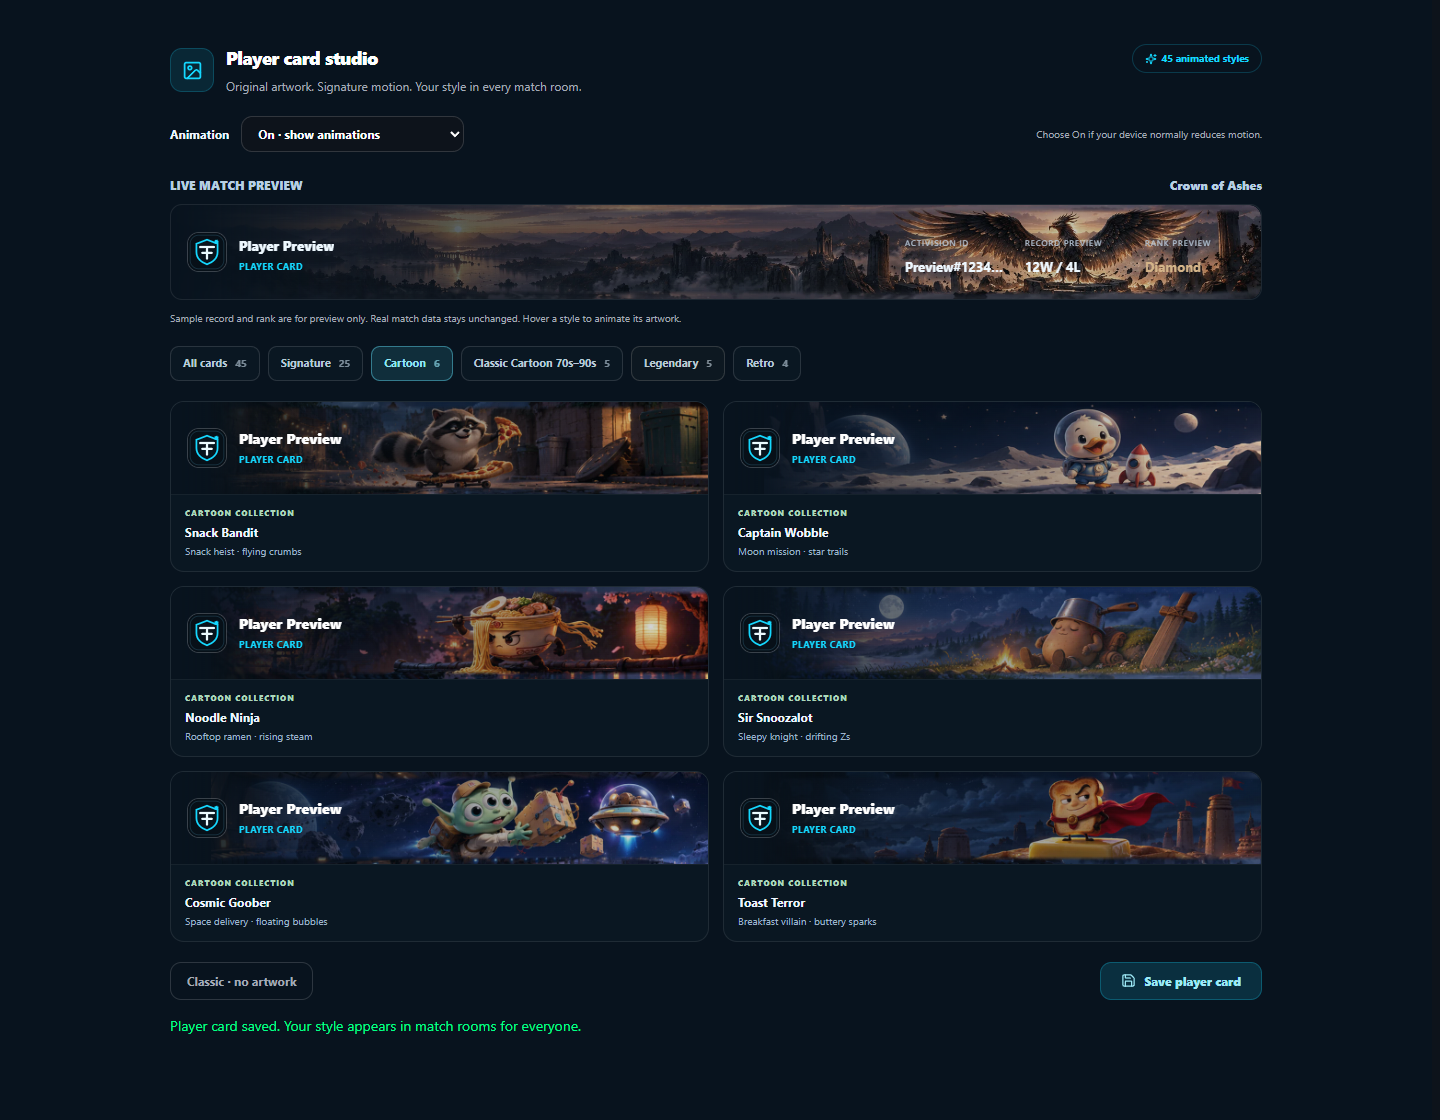
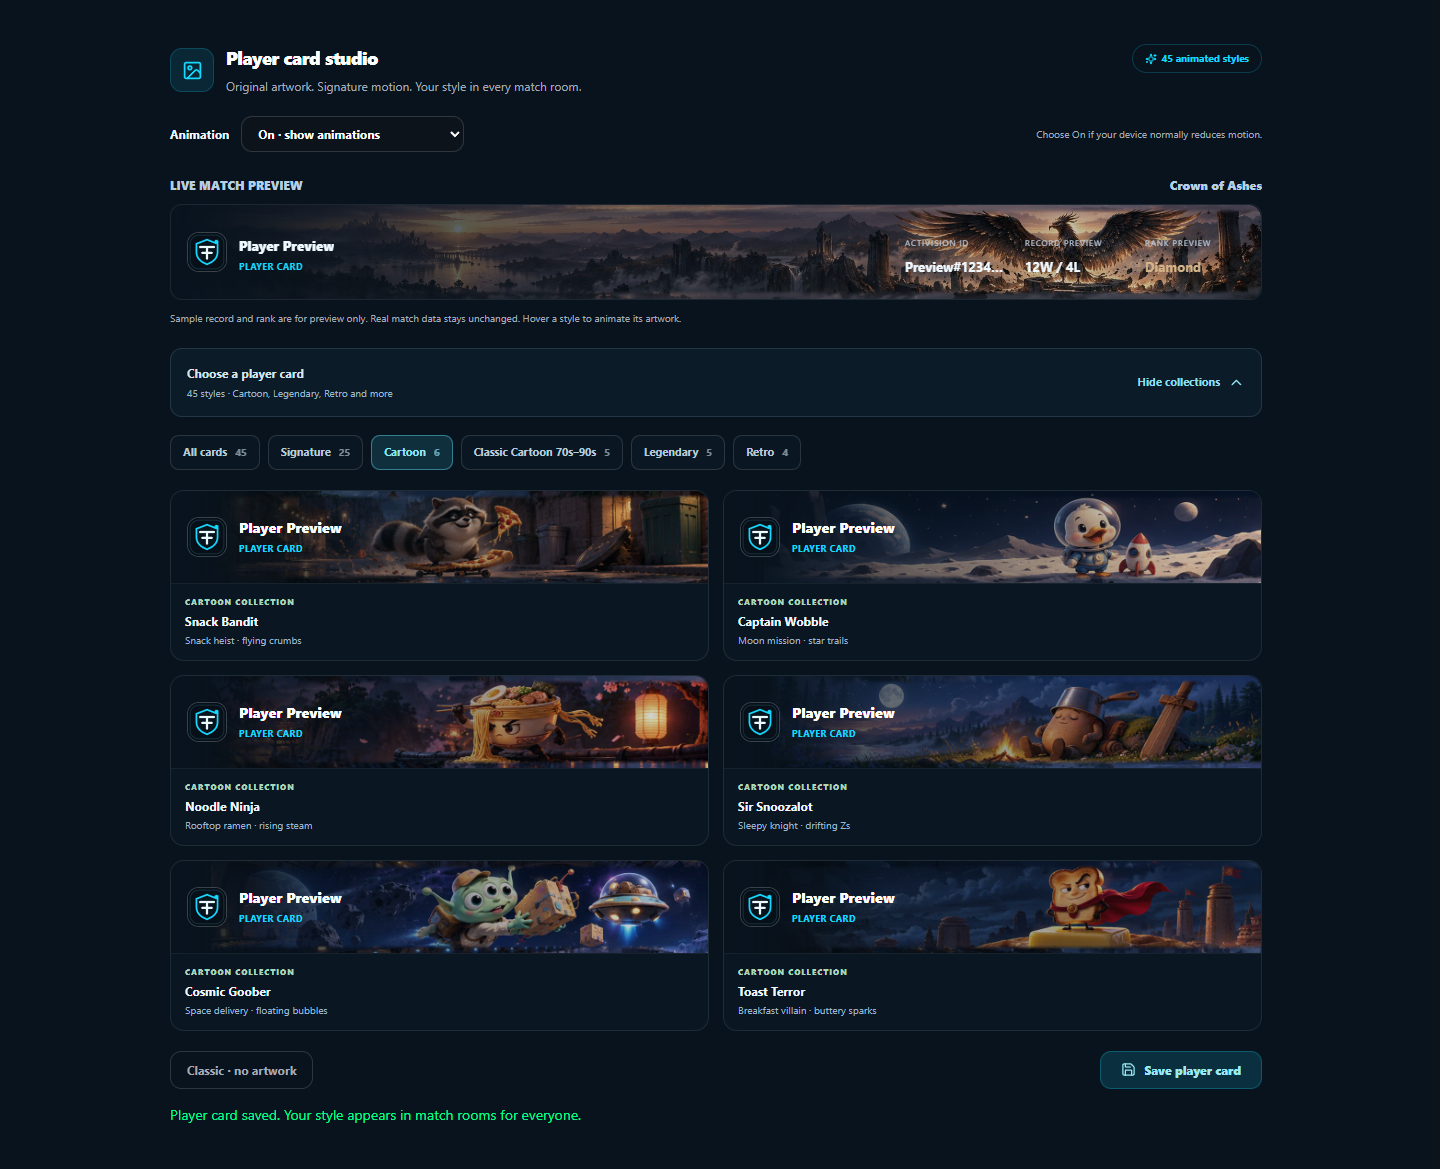
2354
25454

diff --git a/src/components/settings/PlayerCardSection.jsx b/src/components/settings/PlayerCardSection.jsx
@@ -1,26 +1,52 @@
 import PlayerCardEffects from "@/components/ui/PlayerCardEffects";
-import React, { useEffect, useState } from "react";
-import { Check, Image, Loader2, Save, Sparkles } from "lucide-react";
+import React, { memo, useEffect, useRef, useState } from "react";
+import { Check, ChevronDown, Image, Loader2, Save, Sparkles } from "lucide-react";
 import { base44 } from "@/api/base44Client";
 import { playerCardThemes, playerCardAppearance, playerCardTheme, playerCardCollections } from "@/lib/playerCards";
 import PlayerAvatarImage from "@/components/ui/PlayerAvatarImage";
 import "@/styles/player-cards.css";
 
-export default function PlayerCardSection({ user, onUserUpdate }) {
+const CARD_BATCH_SIZE = 8;
+const collectionCounts = Object.fromEntries(playerCardCollections.map(item => [item.id, playerCardThemes.filter(theme => item.id === "all" || (theme.collection || "signature") === item.id).length]));
+
+function CardOption({ theme, selected, motion, identity, saving, onSelect }) {
+  const element = useRef(null);
+  const [visible, setVisible] = useState(false);
+  const [hovered, setHovered] = useState(false);
+  const [focused, setFocused] = useState(false);
+  useEffect(() => {
+    if (typeof IntersectionObserver !== "function") { setVisible(true); return; }
+    const observer = new IntersectionObserver(entries => {
+      if (entries.some(entry => entry.isIntersecting)) { setVisible(true); observer.disconnect(); }
+    }, { rootMargin: "120px" });
+    observer.observe(element.current);
+    return () => observer.disconnect();
+  }, []);
+  return <button ref={element} type="button" className="player-card-option" data-collection={theme.collection || "signature"} style={{ "--pc-option": theme.accent }} aria-pressed={selected} onClick={() => onSelect(theme.id)} onPointerEnter={() => setHovered(true)} onPointerLeave={() => setHovered(false)} onFocus={() => { setFocused(true); setVisible(true); }} onBlur={() => setFocused(false)} disabled={saving}>
+    <span {...(visible ? playerCardAppearance(theme.id, motion) : {})} className="player-card-tile">{visible && motion !== "off" && (selected || hovered || focused) && <PlayerCardEffects player={theme.id} />}{identity}</span>
+    <span className="player-card-option-meta"><span>{theme.collection && <span className="player-card-collection-label">{theme.collection === "legendary" && <Sparkles size={10} />}{theme.collection.replaceAll("-", " ")} collection</span>}<strong>{theme.name}</strong><small>{theme.detail}</small></span>{selected && <Check size={17} style={{ color: theme.accent }} />}</span>
+  </button>;
+}
+
+function PlayerCardSection({ user, onUserUpdate }) {
   const [draft, setDraft] = useState(user?.player_card_theme || "");
   const [motion, setMotion] = useState(user?.player_card_motion || "auto");
   const [collection, setCollection] = useState("all");
+  const [browserOpen, setBrowserOpen] = useState(false);
+  const [visibleCount, setVisibleCount] = useState(CARD_BATCH_SIZE);
   const [saving, setSaving] = useState(false), [notice, setNotice] = useState(null);
   useEffect(() => { setDraft(user?.player_card_theme || ""); setMotion(user?.player_card_motion || "auto"); setNotice(null); }, [user?.id, user?.player_card_theme, user?.player_card_motion]);
   const name = user?.display_name || user?.full_name || user?.username || "Your name";
   const selected = playerCardTheme(draft);
+  const filteredThemes = playerCardThemes.filter(theme => collection === "all" || (theme.collection || "signature") === collection);
+  const selectTheme = id => { setDraft(id); setNotice(null); };
   const save = async () => {
     if (saving) return;
     setSaving(true); setNotice(null);
     try {
-      await base44.auth.updateMe({ player_card_theme: draft, player_card_motion: motion });
+      const updatedUser = await base44.auth.updateMe({ player_card_theme: draft, player_card_motion: motion });
       window.dispatchEvent(new CustomEvent("topfragg:profile-updated", { detail: { userId: user.id, playerCardTheme: draft, playerCardMotion: motion } }));
-      await onUserUpdate?.();
+      await onUserUpdate?.(updatedUser);
       setNotice({ success: true, message: "Player card saved. Your style appears in match rooms for everyone." });
     } catch (error) { setNotice({ success: false, message: error.message || "Could not save your player card." }); }
     finally { setSaving(false); }
@@ -32,16 +58,18 @@ export default function PlayerCardSection({ user, onUserUpdate }) {
     <div className="player-card-preview-title"><span>LIVE MATCH PREVIEW</span><span>{selected?.name || "Classic"}</span></div>
     <div {...playerCardAppearance(draft, motion)} className="player-card-full-preview"><PlayerCardEffects player={draft} /><div className="flex min-w-0 items-center gap-3">{identity}</div><div><small>ACTIVISION ID</small><strong className="truncate">{user?.activision_id || "Your Activision ID"}</strong></div><div><small>RECORD PREVIEW</small><strong>12W / 4L</strong></div><div><small>RANK PREVIEW</small><strong style={{ color: selected?.accent || "#40dcff" }}>Diamond</strong></div></div>
     <p className="mt-2 text-[10px] leading-5 text-vapor">Sample record and rank are for preview only. Real match data stays unchanged. Hover a style to animate its artwork.</p>
-    <div className="player-card-collections" role="group" aria-label="Card collections">
-      {playerCardCollections.map(item => <button type="button" key={item.id} data-collection={item.id} aria-pressed={collection === item.id} onClick={() => setCollection(item.id)}>{item.name}<span>{playerCardThemes.filter(theme => item.id === "all" || (theme.collection || "signature") === item.id).length}</span></button>)}
-    </div>
-    <div className="player-card-gallery" role="group" aria-label="Choose your player card">
-      {playerCardThemes.filter(theme => collection === "all" || (theme.collection || "signature") === collection).map(theme => <button key={theme.id} type="button" className="player-card-option" data-collection={theme.collection || "signature"} style={{ "--pc-option": theme.accent }} aria-pressed={draft === theme.id} onClick={() => { setDraft(theme.id); setNotice(null); }} disabled={saving}>
-        <span {...playerCardAppearance(theme.id, motion)} className="player-card-tile"><PlayerCardEffects player={theme.id} />{identity}</span>
-        <span className="player-card-option-meta"><span>{theme.collection && <span className="player-card-collection-label">{theme.collection === "legendary" && <Sparkles size={10} />}{theme.collection} collection</span>}<strong>{theme.name}</strong><small>{theme.detail}</small></span>{draft === theme.id && <Check size={17} style={{ color: theme.accent }} />}</span>
-      </button>)}
-    </div>
+    <button type="button" className="player-card-browser-toggle" aria-expanded={browserOpen} aria-controls="player-card-browser" onClick={() => { setBrowserOpen(!browserOpen); if (browserOpen) setVisibleCount(CARD_BATCH_SIZE); }}><span><strong>Choose a player card</strong><small>{playerCardThemes.length} styles · Cartoon, Legendary, Retro and more</small></span><span>{browserOpen ? "Hide collections" : "Browse collections"}<ChevronDown size={17} /></span></button>
+    {browserOpen && <div id="player-card-browser" className="player-card-browser">
+      <div className="player-card-collections" role="group" aria-label="Card collections">
+        {playerCardCollections.map(item => <button type="button" key={item.id} data-collection={item.id} aria-pressed={collection === item.id} onClick={() => { setCollection(item.id); setVisibleCount(CARD_BATCH_SIZE); }}>{item.name}<span>{collectionCounts[item.id]}</span></button>)}
+      </div>
+      <div className="player-card-gallery" role="group" aria-label="Choose your player card">
+        {filteredThemes.slice(0, visibleCount).map(theme => <CardOption key={theme.id} theme={theme} selected={draft === theme.id} motion={motion} identity={identity} saving={saving} onSelect={selectTheme} />)}
+      </div>
+      {visibleCount < filteredThemes.length && <button type="button" className="player-card-show-more" onClick={() => setVisibleCount(count => count + CARD_BATCH_SIZE)}>Show {Math.min(CARD_BATCH_SIZE, filteredThemes.length - visibleCount)} more cards <span>{Math.min(visibleCount, filteredThemes.length)} / {filteredThemes.length}</span></button>}
+    </div>}
     <footer className="mt-5 flex flex-wrap items-center justify-between gap-3"><button type="button" className="rounded-lg border border-white/15 px-4 py-2.5 text-xs font-bold text-vapor hover:text-white disabled:opacity-50" disabled={saving} onClick={() => { setDraft(""); setNotice(null); }} aria-pressed={!draft}>Classic · no artwork</button><button type="button" disabled={saving || (draft === (user?.player_card_theme || "") && motion === (user?.player_card_motion || "auto"))} onClick={save} className="inline-flex items-center gap-2 rounded-lg bg-cyan px-5 py-2.5 text-xs font-black text-background disabled:opacity-50">{saving ? <Loader2 size={15} className="animate-spin" /> : <Save size={15} />}Save player card</button></footer>
     {notice && <p role={notice.success ? "status" : "alert"} className={`mt-4 text-sm ${notice.success ? "text-green" : "text-red-400"}`}>{notice.message}</p>}
   </section>;
 }
+export default memo(PlayerCardSection);

diff --git a/src/styles/player-cards.css b/src/styles/player-cards.css
@@ -178,6 +178,14 @@
 .player-card-option:is(:hover,:focus-visible,[aria-pressed="true"]) .pc-atmosphere>i{animation-play-state:running}
 @media(prefers-reduced-motion:reduce){[data-player-card]:not([data-card-animation="on"]) .pc-atmosphere>i{animation:none!important;opacity:0!important}}
 .player-card-settings{padding:24px}.player-card-gallery{display:grid;grid-template-columns:repeat(2,minmax(0,1fr));gap:14px;margin-top:20px}
+.player-card-browser-toggle{width:100%;display:flex;align-items:center;justify-content:space-between;gap:16px;margin-top:20px;padding:15px 16px;text-align:left;border:1px solid #69899e40;border-radius:12px;background:#0b1c28;color:#d6e6f1}
+.player-card-browser-toggle strong{display:block;font-size:12px}.player-card-browser-toggle small{display:block;margin-top:4px;font-size:10px;color:#9fb5c6}
+.player-card-browser-toggle>span:last-child{display:flex;align-items:center;gap:8px;font-size:11px;font-weight:700;color:#8edff0}
+.player-card-browser-toggle svg{flex-shrink:0;transition:transform .2s ease}.player-card-browser-toggle[aria-expanded="true"] svg{transform:rotate(180deg)}
+.player-card-browser-toggle:hover{border-color:#8edff080}.player-card-browser-toggle:focus-visible,.player-card-show-more:focus-visible{outline:2px solid #8edff0;outline-offset:3px}
+.player-card-show-more{display:flex;align-items:center;justify-content:center;gap:12px;width:100%;padding:12px;margin-top:14px;border:1px solid #ffffff24;border-radius:9px;background:#0a1722;color:#bfe7ed;font-size:11px;font-weight:700}.player-card-show-more span{color:#91a6b6;font-size:10px}
+@media(max-width:650px){.player-card-browser-toggle{align-items:flex-start}.player-card-browser-toggle>span:last-child{font-size:10px;flex-shrink:0}.player-card-browser-toggle small{max-width:170px}}
+@media(prefers-reduced-motion:reduce){.player-card-browser-toggle svg{transition:none}}
 .player-card-collections{display:flex;flex-wrap:wrap;gap:8px;margin-top:18px}
 .player-card-collections button{display:inline-flex;align-items:center;gap:8px;border:1px solid #ffffff20;border-radius:9px;padding:8px 12px;color:#b9cbd9;background:#0a1722;font-size:11px;font-weight:700}
 .player-card-collections button span{opacity:.65;font-size:10px}

diff --git a/src/pages/Settings.jsx b/src/pages/Settings.jsx
@@ -71,14 +71,18 @@ export default function Settings() {
   const GroupIcon = icons[activeGroup.icon];
   const searchResults = searchSettings(query);
 
-  const loadUser = useCallback(async () => {
-    const me = await base44.auth.me({ force: true });
+  const loadUser = useCallback(async ({ force = true } = {}) => {
+    const me = await base44.auth.me({ force });
     setUser(me);
   }, []);
+  const applyPlayerCardUser = useCallback(updatedUser => {
+    if (updatedUser?.id) setUser(updatedUser);
+    else return loadUser();
+  }, [loadUser]);
 
   useEffect(() => {
     base44.auth.isAuthenticated().then(async (authed) => {
-      if (authed) await loadUser();
+      if (authed) await loadUser({ force: false });
     }).catch(() => setError("Your settings could not be loaded. Please refresh and try again."))
       .finally(() => setLoading(false));
   }, [loadUser]);
@@ -158,7 +162,7 @@ export default function Settings() {
                 <span><GroupIcon size={22} aria-hidden="true" /></span>
                 <div><span className="settings-section-kicker"><Sparkles size={11} /> MAKE IT YOURS</span><h2>{details.title}</h2><p>{details.description}</p></div>
               </header>
-              {activeGroup.id === "appearance" && <div className="settings-panel"><div id="settings-navigation" className="settings-block"><NavigationLayoutSection /></div><div id="settings-player-card" className="settings-block"><PlayerCardSection user={user} onUserUpdate={loadUser} /></div></div>}
+              {activeGroup.id === "appearance" && <div className="settings-panel"><div id="settings-navigation" className="settings-block"><NavigationLayoutSection /></div><div id="settings-player-card" className="settings-block"><PlayerCardSection user={user} onUserUpdate={applyPlayerCardUser} /></div></div>}
               {activeGroup.id === "account" && <div className="settings-panel">
                 <div id="settings-account" className="settings-block"><AccountSection user={user} onUserUpdate={loadUser} /></div>
                 <div id="settings-name-color" className="settings-block"><NameColorSection user={user} onUserUpdate={loadUser} /></div>

diff --git a/server/player-cards.test.js b/server/player-cards.test.js
@@ -80,6 +80,8 @@ test("the real match roster retains readable identity, rank, record and actions 
   }
   assert.doesNotMatch(mod.exports.render(""), /data-player-card=/);
   const studio = mod.exports.studio();
-  for (const theme of playerCardThemes) assert.ok(studio.includes(theme.name));
+  assert.match(studio, /Choose a player card/);
+  assert.doesNotMatch(studio, /class="player-card-option"/);
+  assert.match(studio, /aria-expanded="false"/);
   assert.match(studio, /LIVE MATCH PREVIEW/); assert.match(studio, /Classic/);
 });
